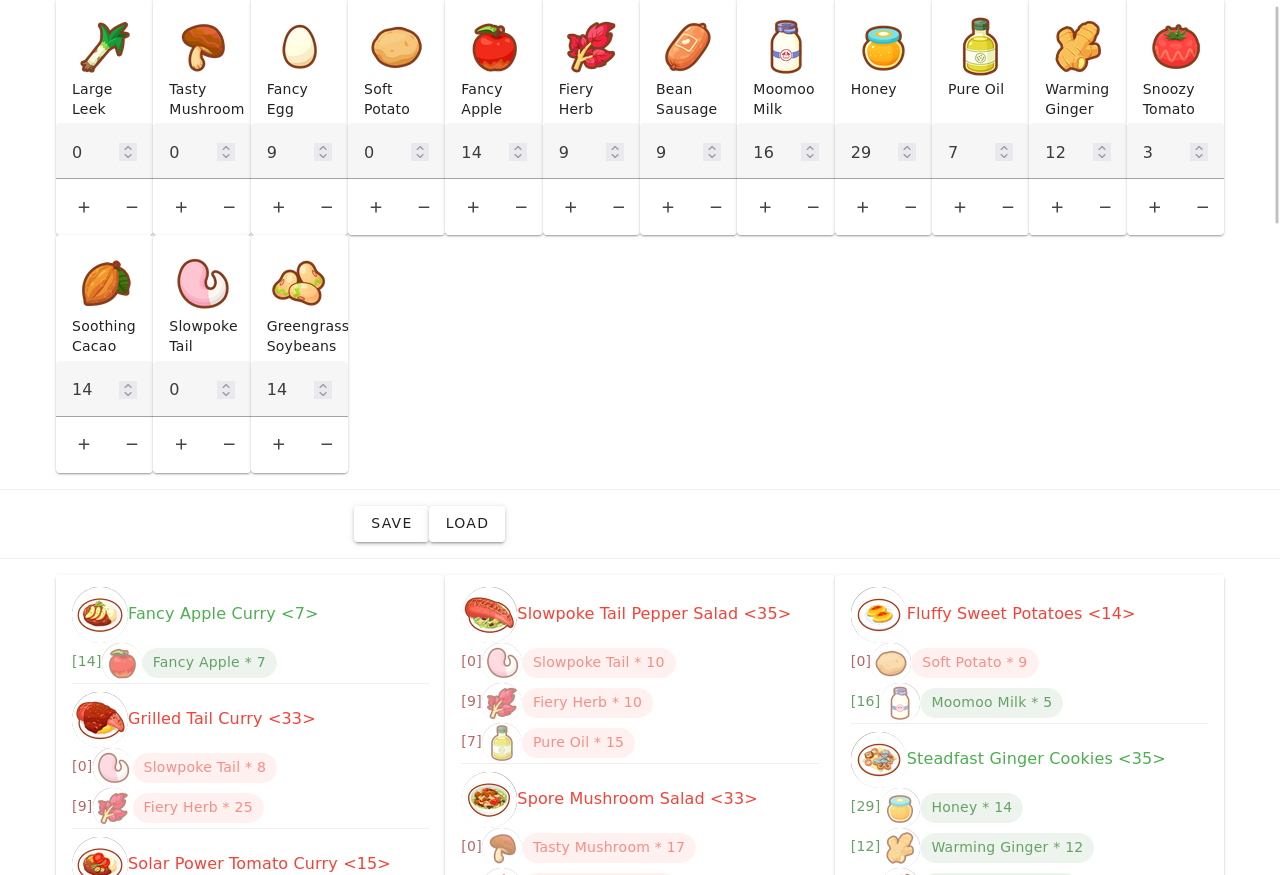
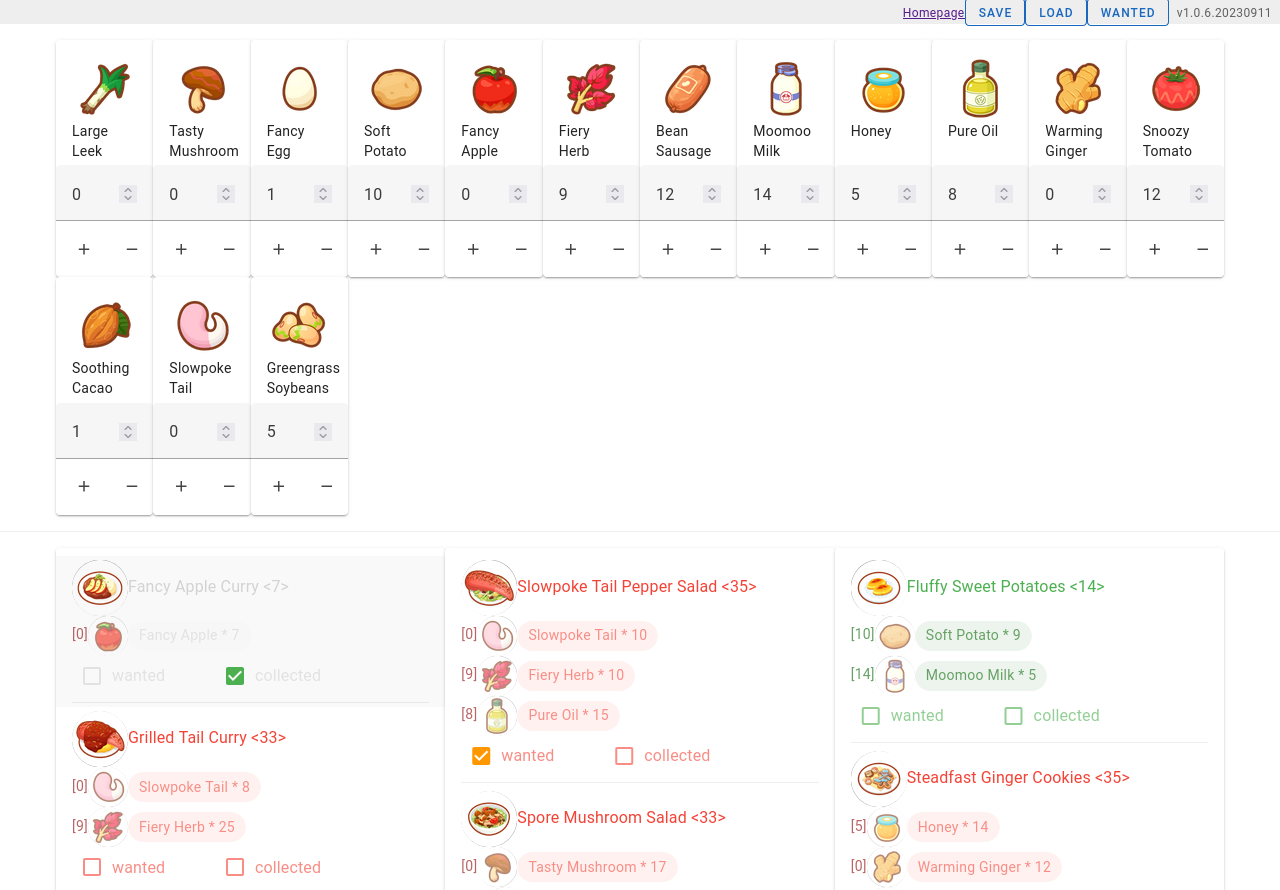
wanted feature prototype.

diff --git a/src/components/PokemonSleepCookingTool.vue b/src/components/PokemonSleepCookingTool.vue
@@ -7,6 +7,8 @@
         <v-btn size="small" variant="outlined" color="primary" @click="save">save</v-btn>
         <v-btn size="small" variant="outlined" color="primary" @click="load">load</v-btn>
 
+        <v-btn size="small" variant="outlined" color="primary" @click="checkWanted">wanted</v-btn>
+
         <span class="ms-2">v{{ version }}</span>
     </v-system-bar>
 
@@ -77,6 +79,7 @@
                                 </div>
                             </v-list-item-subtitle>
                             <div style="display: inline-flex; width: 80%;">
+                                <v-checkbox-btn color="orange" tabindex="-1" v-model="wanted" :value="recipe.name" label="wanted" hide-details></v-checkbox-btn>
                                 <v-checkbox-btn color="success" tabindex="-1" v-model="recipe.collected" label="collected" hide-details></v-checkbox-btn>
                             </div>
 
@@ -102,6 +105,51 @@
         </template>
 
     </v-snackbar>
+
+    <v-dialog v-model="dialog" width="auto">
+        <v-card>
+            <v-card-title>
+                Wanted
+            </v-card-title>
+
+            <v-card-text v-if="wanted.length">
+                You want: <br>
+
+                <v-list-item v-for="(recipe, name) in requiredRecipes">
+                    <v-avatar size="3.5em">
+                        <v-img class="recipe-image" :src="'image/' + recipe.category + '/' + recipe.lowercase + '.png'" alt="recipe.name.lowercase"></v-img>
+                    </v-avatar>
+
+                    <span>
+                        {{ recipe.name }} &lt;{{ recipe.size }}&gt;
+                    </span>
+
+                </v-list-item>
+
+                You will need these ingredients <br>
+
+                <div v-for="(required_ingredients_obj, required_ingredient_name, required_ingredient_index) in requiredIngredients" :key="required_ingredient_index">
+
+                    <!-- <span>[{{  required_ingredient_name  }}]</span> -->
+                    <v-avatar start>
+                        <v-img class="recipe-ingredient-image" :src="'image/Ingredient/' + required_ingredients_obj.lowercase + '.png'" alt="ingredient.lowercase"></v-img>
+                    </v-avatar>
+                    <v-chip>
+                        {{required_ingredient_name}} * {{required_ingredients_obj.value}}
+                    </v-chip>
+                </div>
+
+            </v-card-text>
+
+            <v-card-text v-else="wanted">
+                Check some Reicie you want to collect.
+            </v-card-text>
+
+            <v-card-actions>
+                <v-btn color="primary" block @click="dialog = false">Close Dialog</v-btn>
+            </v-card-actions>
+        </v-card>
+    </v-dialog>
 
 </div>
 </template>
@@ -133,6 +181,11 @@ export default {
                 text: '',
                 color: '',
             },
+
+            dialog: false,
+            wanted: [],
+            requiredRecipes: {},
+            requiredIngredients: {},
         };
     },
     methods: {
@@ -142,10 +195,12 @@ export default {
         save() {
             let ingredients_payload = JSON.stringify(this.ingredients);
             let recipes_payload = JSON.stringify(this.recipes);
+            let wanted_payload = JSON.stringify(this.wanted);
 
             localStorage.setItem('pokemonsleeprecipetool_ingredients_payload', ingredients_payload);
             localStorage.setItem('pokemonsleeprecipetool_pot_size_payload', this.pot_size);
             localStorage.setItem('pokemonsleeprecipetool_recipes_payload', recipes_payload);
+            localStorage.setItem('pokemonsleeprecipetool_wanted_payload', wanted_payload);
 
             this.snackbar_payload.text = 'data saved';
             this.snackbar_payload.color = 'info';
@@ -157,6 +212,7 @@ export default {
             let str1 = localStorage.getItem('pokemonsleeprecipetool_ingredients_payload');
             let str2 = localStorage.getItem('pokemonsleeprecipetool_pot_size_payload');
             let str3 = localStorage.getItem('pokemonsleeprecipetool_recipes_payload');
+            let str4 = localStorage.getItem('pokemonsleeprecipetool_wanted_payload');
 
             /*
             if (!str1 || !str2 || !str3) {
@@ -192,16 +248,58 @@ export default {
                 }
             }
 
+            if (str4) {
+                let wanted_payload = JSON.parse(str4);
+                this.wanted = wanted_payload;
+            }
+
             this.autoCalc = true;
 
             this.snackbar_payload.text = 'saved data loaded';
             this.snackbar_payload.color = 'success';
             this.snackbar = true;
 
-
+        },
+        checkWanted() {
+            this.dialog = true;
             //this.calc();
             //this.ingredients = {};
-            //this.ingredients = payload;
+
+            let recipes = GetRecipes();
+
+            const plainRecipe = {
+                ...recipes.Curry,
+                ...recipes.Salad,
+                ...recipes.Dessert,
+            };
+
+            let requiredIngredients = GetIngredients();
+            let requiredRecipes = {};
+
+            this.wanted.forEach((wantedRecipeName, i) => {
+                if (plainRecipe.hasOwnProperty(wantedRecipeName)) {
+
+                    let category = plainRecipe[wantedRecipeName].category;
+                    requiredRecipes[wantedRecipeName] = this.recipes[category][wantedRecipeName];
+
+                    for (const wantedIngredient in plainRecipe[wantedRecipeName].ingredients) {
+                        requiredIngredients[wantedIngredient].value = requiredIngredients[wantedIngredient].value + plainRecipe[wantedRecipeName].ingredients[wantedIngredient];
+                    }
+                } else {
+                    console(wantedRecipeName + ' Not Found!');
+                }
+            });
+
+            let requiredIngredientsTrim = {};
+
+            for (const wantedIngredient in requiredIngredients) {
+                if (requiredIngredients[wantedIngredient].value > 0) {
+                    requiredIngredientsTrim[wantedIngredient] = requiredIngredients[wantedIngredient];
+                }
+            }
+
+            this.requiredRecipes = requiredRecipes;
+            this.requiredIngredients = requiredIngredientsTrim;
         },
         /*
         getRecipeClass(able) {

diff --git a/README.md b/README.md
@@ -12,6 +12,9 @@ _This project is still **WIP** and may change a lot._
 
 ![Screenshot](Screenshot.png)
 
+![Screenshot_wanted](Screenshot_wanted.png)
+
+
 ## How to use
 
 Input your ingredient info and this tool will show you which recipes you can make and which you cannot yet.
@@ -21,7 +24,7 @@ You can click the save button to save your ingredient info into your [Browser's 
 ## Todos
 
 1. Pot size filter and Sunday feature.
-2. ~~Learned~~ and Wanted filter. (Collected filter done in 1.0.6.20230908)
+2. ~~Learned and Wanted filter~~. (Collected filter done in 1.0.6.20230908)(Wanted filter prototype done in 1.0.6.20230911)
 3. Ingredient source informations.
 4. Better Typography.
 5. Mobile Compatibility.
